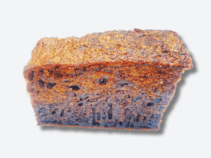
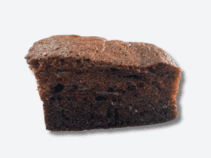
Update image product

diff --git a/pages/api/menu.js b/pages/api/menu.js
@@ -2,23 +2,25 @@ let menu = [
     { id: 1, name: "Egg Tart", category: "Cakes", price:2.40, image: "/cakes/eggTart.png"},
     { id: 2, name: "UFO Tart", category: "Cakes", price:2.60, image: "/cakes/ufoTart.png"},
     { id: 3, name: "HawFlake Cake", category: "Cakes", price:4.20, image: "/cakes/hawFlakeCake.png"},
-    { id: 4, name: "Brown Swiss Roll", category: "Cakes", price:2.40, image: "/cakes/brownSwissRoll.png"},
-    { id: 5, name: "Swiss Roll", category: "Cakes", price:2.40, image: "/cakes/swissRoll.png"},
-    { id: 6, name: "Chicken Floss", category: "Cakes", price:3.00, image: "/cakes/chickenFloss.png"},
-    { id: 7, name: "Chicken Pie", category: "Cakes", price:2.70, image: "/cakes/chickenPie.png"},
-    { id: 8, name: "Jam Pie", category: "Cakes", price:1.30, image: "/cakes/jamPie.png"},
-    { id: 9, name: "Tausa Pie", category: "Cakes", price:1.30, image: "/cakes/tausaPie.png"},
-    { id: 10, name: "Choc Cream Cake", category: "Cakes", price:3.20, image: "/cakes/chocCreamCake.png"},
-    { id: 11, name: "Cream Cake", category: "Cakes", price:3.20, image: "/cakes/creamCake.png"},
-    { id: 12, name: "Steam Cake", category: "Cakes", price:2.00, image: "/cakes/steamCake.png"},
-    { id: 13, name: "Cream Puff", category: "Cakes", price:2.50, image: "/cakes/creamPuff.png"},
-    { id: 14, name: "Curry Puff", category: "Cakes", price:2.70, image: "/cakes/curryPuff.png"},
-    { id: 15, name: "Custard Cake", category: "Cakes", price:3.00, image: "/cakes/custardCake.png"},
+    { id: 4, name: "Vanila Swiss Roll", category: "Cakes", price:2.40, image: "/cakes/valinaSwissRoll.png"},
+    { id: 5, name: "Pandan Swiss Roll", category: "Cakes", price:2.40, image: "/cakes/pandanSwissRoll.png"},
+    { id: 6, name: "Coffee Swiss Roll", category: "Cakes", price:2.40, image: "/cakes/coffeeSwissRoll.png"},
+    { id: 7, name: "Chicken Floss", category: "Cakes", price:3.00, image: "/cakes/chickenFloss.png"},
+    { id: 8, name: "Chicken Pie", category: "Cakes", price:2.70, image: "/cakes/chickenPie.png"},
+    { id: 9, name: "Jam Pie", category: "Cakes", price:1.30, image: "/cakes/jamPie.png"},
+    { id: 10, name: "Tausa Pie", category: "Cakes", price:1.30, image: "/cakes/tausaPie.png"},
+    { id: 11, name: "Choc Cream Cake", category: "Cakes", price:3.20, image: "/cakes/chocCreamCake.png"},
+    { id: 12, name: "Cream Cake", category: "Cakes", price:3.20, image: "/cakes/creamCake.png"},
+    { id: 13, name: "Steam Cake", category: "Cakes", price:2.00, image: "/cakes/steamCake.png"},
+    { id: 14, name: "Cream Puff", category: "Cakes", price:2.50, image: "/cakes/creamPuff.png"},
+    { id: 15, name: "Curry Puff", category: "Cakes", price:2.70, image: "/cakes/curryPuff.png"},
+    { id: 16, name: "Custard Cake", category: "Cakes", price:3.00, image: "/cakes/custardCake.png"},
 
-    { id: 16, name: "Butter Chocolate Cake", category: "Cakes", price:3.00, image: "/cakes/butterChocolateCake.png"},
-    { id: 17, name: "Honey Comb", category: "Cakes", price:2.40, image: "/cakes/honeyComb.png"},
-    { id: 18, name: "Cheese Tart", category: "Cakes", price:3.50, image: "/cakes/cheeseTart.png"},
-    { id: 19, name: "Chocolate Chip", category: "Cakes", price:4.20, image: "/cakes/chocolateChip.png"},
+    { id: 17, name: "Butter Chocolate Cake", category: "Cakes", price:3.00, image: "/cakes/butterChocolateCake.png"},
+    { id: 18, name: "Honey Comb", category: "Cakes", price:2.40, image: "/cakes/honeyComb.png"},
+    { id: 19, name: "Cheese Tart", category: "Cakes", price:3.50, image: "/cakes/cheeseTart.png"},
+    { id: 20, name: "Chocolate Chip", category: "Cakes", price:4.20, image: "/cakes/chocolateChip.png"},
+    { id: 21, name: "Sponge Cake", category: "Cakes", price:2.00, image: "/cakes/spongeCake.png"},
 
     { id: 25, name: "Kono Mee", category: "Dish", price:8.00, image: "/dish/konoMee.png", selection:true, choices: [{name: "Campur", price: 0.00}, {name: "Ayam Goreng", price: 0.00}, {name: "Sui Kau", price: 1.00}, {name: "Seafood", price: 2.00}, {name: "Udang", price: 4.00}]},
     { id: 26, name: "Goreng Kering", category: "Dish", price:9.00, image: "/dish/gorengKering.png", selection:true, choices: [{name: "Campur", price: 0.00}, {name: "Ayam", price: 0.00}, {name: "Ayam Goreng", price: 1.00}, {name: "Seafood", price: 2.00}]},
@@ -55,13 +57,15 @@ let menu = [
     { id: 56, name: "Kopi O", category: "Drinks", price:1.80, image: "/pandan.png", selection:true, choices: [{name: "Hot", price: 0.00}, {name: "Cold", price: 2.50}]},
     { id: 57, name: "Pandan Soy Milk", category: "Drinks", price:3.00, image: "/drinks/pandanSoya.png", selection:true, choices: [{name: "with Sugar", price: 0.00}, {name: "No Sugar", price: 0.50}]},
     { id: 58, name: "Teh O", category: "Drinks", price:1.80, image: "/pandan.png", selection:true, choices: [{name: "Hot", price: 0.00},{name: "Cold", price: 0.70}]},
-    { id: 59, name: "Chinese Teh", category: "Drinks", price:0.50, image: "/pandan.png", selection:true, choices: [{name: "Hot", price: 0.00},{name: "Cold", price: 0.00}]},
-    { id: 60, name: "100 Plus", category: "Drinks", price:2.50, image: "/drinks/100Plus.png"},
-    { id: 61, name: "Coca Cola", category: "Drinks", price:2.50, image: "/drinks/cocaCola.png"},
-    { id: 62, name: "EST Cola", category: "Drinks", price:2.50, image: "/drinks/estCola.png"},
-    { id: 63, name: "F&N Orange.png", category: "Drinks", price:2.50, image: "/drinks/F&NOrange.png"},
-    { id: 64, name: "Yeo's Chrysanthemum", category: "Drinks", price:2.50, image: "/drinks/chrysanthemum.png"},
-    { id: 65, name: "Yeo's Susu Soya", category: "Drinks", price:2.50, image: "/drinks/susuSoya.png"},
+    { id: 59, name: "Chinese Teh", category: "Drinks", price:0.50, image: "/drinks/chineseTeh.png", selection:true, choices: [{name: "Hot", price: 0.00},{name: "Cold", price: 0.00}]},
+    { id: 60, name: "Sang Suk Lai", category: "Drinks", price:2.50, image: "/drinks/sangSukLai.png", selection:true, choices: [{name: "Hot", price: 0.00},{name: "Cold", price: 1.00}]},
+    { id: 61, name: "Lai Lo Fa", category: "Drinks", price:4.00, image: "/drinks/laiLoFa.png"},
+    { id: 65, name: "100 Plus", category: "Drinks", price:2.50, image: "/drinks/100Plus.png"},
+    { id: 66, name: "Coca Cola", category: "Drinks", price:2.50, image: "/drinks/cocaCola.png"},
+    { id: 67, name: "EST Cola", category: "Drinks", price:2.50, image: "/drinks/estCola.png"},
+    { id: 68, name: "F&N Orange.png", category: "Drinks", price:2.50, image: "/drinks/F&NOrange.png"},
+    { id: 69, name: "Yeo's Chrysanthemum", category: "Drinks", price:2.50, image: "/drinks/chrysanthemum.png"},
+    { id: 70, name: "Yeo's Susu Soya", category: "Drinks", price:2.50, image: "/drinks/susuSoya.png"},
     
   ];
   
